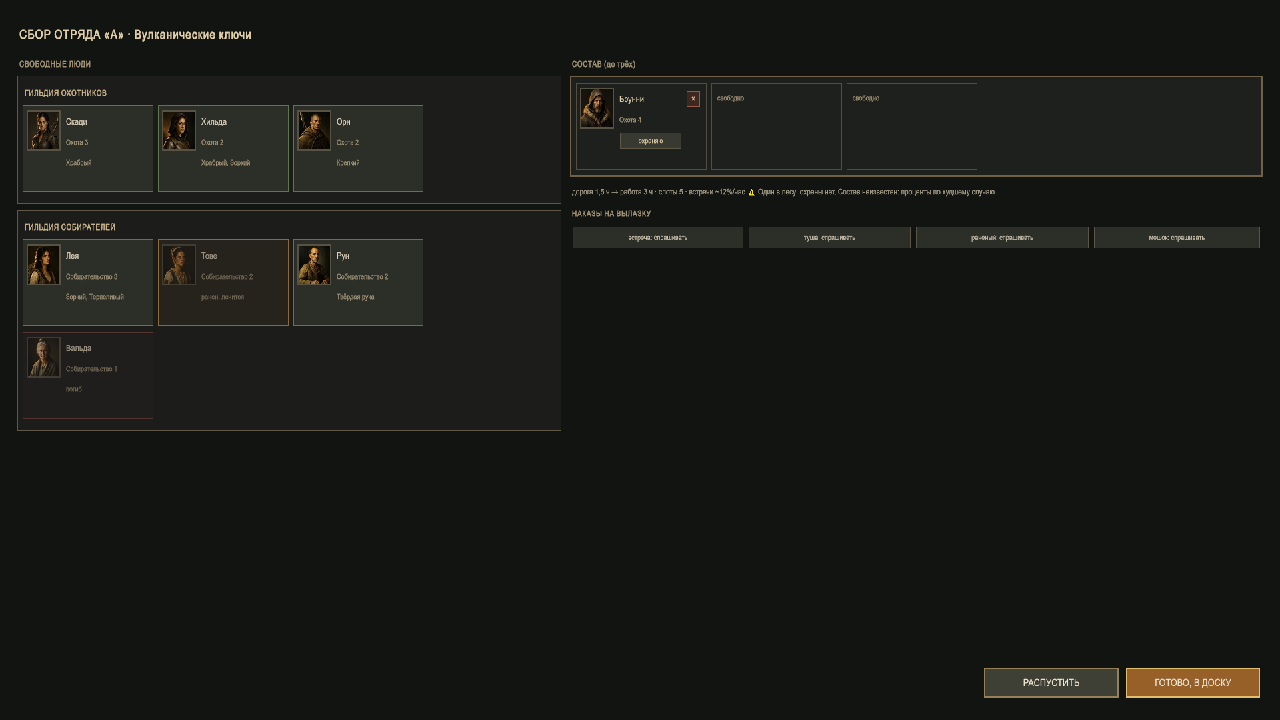
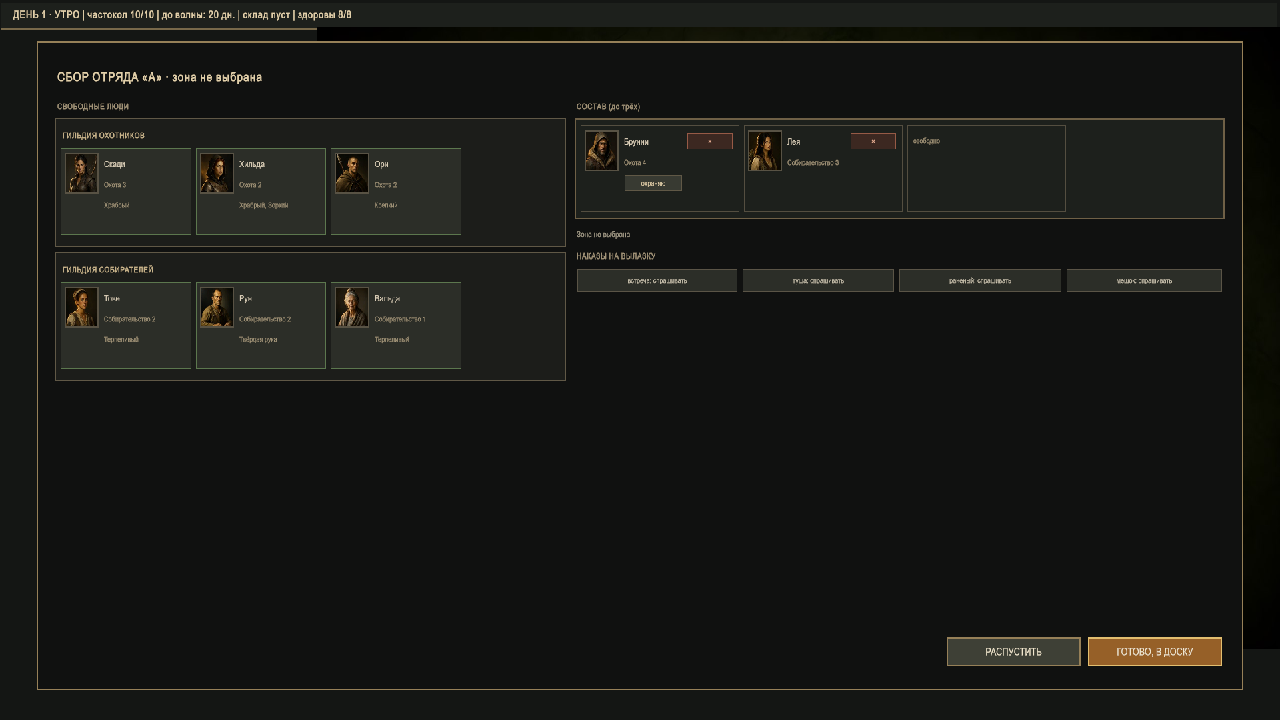
feat(ui): стартовое меню с симуляцией экрана поиска отряда

diff --git a/FG/Assets/Scripts/Game/MapScreen.cs b/FG/Assets/Scripts/Game/MapScreen.cs
@@ -53,6 +53,9 @@ namespace ForestGuild.Game
         private VisualElement _modal;
         private Label _modalTitle;
         private VisualElement _modalLines;
+        private VisualElement _menu;
+        private bool _inMenu;
+        private bool _demoMuster;
 
         private void Awake()
         {
@@ -111,7 +114,15 @@ namespace ForestGuild.Game
 
             Muster = new MusterScreen(root);
             Board.EditRequested += squad => Muster.Open(squad, Tables, World, _plan);
-            Muster.Closed += () => Board.Rebuild();
+            Muster.Closed += () =>
+            {
+                Board.Rebuild();
+                if (_demoMuster)
+                {
+                    _demoMuster = false;
+                    ShowMenu();
+                }
+            };
 
             Dossier = new DossierScreen(root);
             Dossier.GatherRequested += zoneId =>
@@ -120,7 +131,6 @@ namespace ForestGuild.Game
                 Board.Active.ZoneId = zoneId;
                 Board.Rebuild();
             };
-
             Evening = new EveningScreen(root);
             Evening.Slept += GoToNight;
 
@@ -138,7 +148,59 @@ namespace ForestGuild.Game
 
             Map.RefreshStates(World);
             Board.Rebuild();
+
+            _menu = root.Q<VisualElement>("menu");
+            root.Q<Button>("menu-play").clicked += StartGame;
+            root.Q<Button>("menu-sim").clicked += StartMusterDemo;
+            ShowMenu();
+        }
+
+        // ---- стартовое меню ----
+
+        private void ShowMenu()
+        {
+            if (_inMenu) return;
+            _inMenu = true;
+
+            _menu.RemoveFromClassList("hidden");
+            _leftPanel.AddToClassList("hidden");
+            _bottomBar.AddToClassList("hidden");
+            _pane.AddToClassList("hidden");
+            StartDay.Close();
+            Evening.Close();
+            Expedition?.Close();
+            Dossier.Close();
+
+            _inMenu = false;
+        }
+
+        private void StartGame()
+        {
+            _menu.AddToClassList("hidden");
             BeginDay();
+        }
+
+        /// Симуляция экрана поиска отряда: Сбор без прогона дня, для показа и правок.
+        private void StartMusterDemo()
+        {
+            _menu.AddToClassList("hidden");
+
+            var squad = World.Squads[0];
+            if (squad.Members.Count == 0)
+            {
+                squad.Members.Add("brunni");
+                squad.Members.Add("leya");
+            }
+
+            SetPhase(Phase.Morning);
+            Board.Rebuild();
+
+            // Симуляция — это только экран Сбора: планирование и низ убираем, чтобы не мешали.
+            _leftPanel.AddToClassList("hidden");
+            _bottomBar.AddToClassList("hidden");
+
+            _demoMuster = true;
+            Muster.Open(squad, Tables, World, _plan);
         }
 
         // ---- фазы ----

diff --git a/FG/AgentScripts/DriveMenu.cs b/FG/AgentScripts/DriveMenu.cs
@@ -1,0 +1,34 @@
+using System.Reflection;
+using UnityEngine;
+using UnityEngine.UIElements;
+
+/// <summary>Проверяет оба пункта меню: игра и симуляция Сбора.</summary>
+public static class DriveMenu
+{
+    private const BindingFlags Flags = BindingFlags.NonPublic | BindingFlags.Instance;
+
+    public static string Run()
+    {
+        var screen = Object.FindAnyObjectByType<ForestGuild.Game.MapScreen>();
+        var type = screen.GetType();
+        var root = screen.GetComponent<UIDocument>().rootVisualElement;
+
+        var menu = root.Q<VisualElement>("menu");
+        var startday = root.Q<VisualElement>("startday");
+
+        var menuVisible = menu != null && !menu.ClassListContains("hidden");
+
+        type.GetMethod("StartGame", Flags).Invoke(screen, null);
+        var gameOk = startday != null && !startday.ClassListContains("hidden");
+        var menuHidden = menu.ClassListContains("hidden");
+
+        type.GetMethod("ShowMenu", Flags).Invoke(screen, null);
+        type.GetMethod("StartMusterDemo", Flags).Invoke(screen, null);
+        var musterOk = screen.Muster.IsOpen;
+
+        return "menuVisible=" + menuVisible
+            + " afterPlay startday=" + gameOk
+            + " menuHidden=" + menuHidden
+            + " afterSim muster=" + musterOk;
+    }
+}

diff --git a/FG/AgentScripts/CloseMusterDemo.cs b/FG/AgentScripts/CloseMusterDemo.cs
@@ -1,0 +1,18 @@
+using UnityEngine;
+using UnityEngine.UIElements;
+
+/// <summary>Закрывает симуляцию Сбора и проверяет возврат в меню.</summary>
+public static class CloseMusterDemo
+{
+    public static string Run()
+    {
+        var screen = Object.FindAnyObjectByType<ForestGuild.Game.MapScreen>();
+        screen.Muster.Close();
+
+        var root = screen.GetComponent<UIDocument>().rootVisualElement;
+        var menu = root.Q<VisualElement>("menu");
+
+        return "muster=" + screen.Muster.IsOpen
+            + " menu=" + (menu != null && !menu.ClassListContains("hidden"));
+    }
+}

diff --git a/docs/ui.md b/docs/ui.md
@@ -38,6 +38,10 @@
 
 ## 3. Каркас
 
+**Стартовое меню.** «ЛЕСНАЯ ГИЛЬДИЯ» — два пункта: «НАЧАТЬ ИГРУ» (обычный цикл с дня 1) и
+«ПОИСК ОТРЯДА · СИМУЛЯЦИЯ» — тот же экран Сбора, но открытый напрямую, без прогона дня: удобно
+показывать экран и править его. Выход из симуляции возвращает в меню.
+
 Одна сцена, пять состояний + постоянный HUD. Цикл всегда вперёд: Утро → День → Вечер → Ночь → Утро…
 Промотать фазу нельзя (Утро можно «закрыть» не назначив). «Сбор отряда» — отдельный полноэкранный
 режим, доступный **только из Утра**: доска в это время ждёт, пока не вернёшься с составом.
@@ -518,7 +522,7 @@ StandingOrders {
 
 | Раздел | Статус | Что есть / чего нет |
 |---|---|---|
-| §3 Каркас | есть | Пять состояний: окно начала дня (день + статус жителей) → планирование → день → вечер → ночь. Панель-превью справа убрана: полное досье открывается кликом по зоне |
+| §3 Каркас | есть | Стартовое меню («НАЧАТЬ ИГРУ», «ПОИСК ОТРЯДА · СИМУЛЯЦИЯ») → окно начала дня (день + статус жителей) → планирование → день → вечер → ночь. Панель-превью справа убрана: полное досье открывается кликом по зоне |
 | §4.1 Доска | частично | Две карточки отрядов: зона-переключатель, портреты состава, время в пути, намерение, «настроить…». Кнопка внизу — «НАЧАТЬ ДЕНЬ», отладочного тумблера нет. Нет прогноза находок |
 | §4.2 Отряд-пресет | частично | `World.Squads` живёт между днями (состав, зона, намерение), но сейва нет — с перезапуском всё начинается заново |
 | §4.3 Сбор (drag&drop) | частично | Полноэкранный Сбор: свободные люди разложены **по гильдиям** (охотники / собиратели), плитка размером с место в лотке; лоток на три места, роли охотника, четыре наказа, кнопка «×» убирает из отряда. Драг реализован (PointerCapture + призрак), автотестом проверен только клик-клик |

diff --git a/docs/current/2026-11-07-ui-slice/result.md b/docs/current/2026-11-07-ui-slice/result.md
@@ -293,6 +293,15 @@
 
 Проверено: 32 проверки ядра, код 0; в Play Mode приказ и Сбор показывают только «Втроём в лесу шумно — твари замечают раньше».
 
+## Итерация 24 — стартовое меню
+
+- Экран меню: «ЛЕСНАЯ ГИЛЬДИЯ», подзаголовок «деревня на краю магического леса», кнопки **«НАЧАТЬ ИГРУ»** и **«ПОИСК ОТРЯДА · СИМУЛЯЦИЯ»**.
+- «Начать игру» убирает меню и открывает окно первого дня.
+- «Поиск отряда» открывает Сбор напрямую — с двумя людьми в лотке, без прогона дня; планирование и нижняя панель скрыты, чтобы не мешать. «ГОТОВО, В ДОСКУ» возвращает в меню.
+- Попутно поправлен лоток Сбора: слот стал шире (260 px), кнопка «снять» больше не обрезается.
+
+Проверено: 32 проверки ядра, код 0; в Play Mode `menuVisible=True`, после «Начать игру» открывается окно дня, после «Поиск отряда» — Сбор, после закрытия возвращается меню (`muster=False menu=True`). Скриншоты `docs/images/ui/step1/menu.png`, `muster.png`.
+
 ## Заметки на будущее
 
 - `UIDocument.panelSettings`, назначенный сеттером из скриптовой сборки сцены, **не сериализуется** (`m_PanelSettings: {fileID: 0}`) — экран чёрный. Ставить через `SerializedObject` и сохранять сцену.
